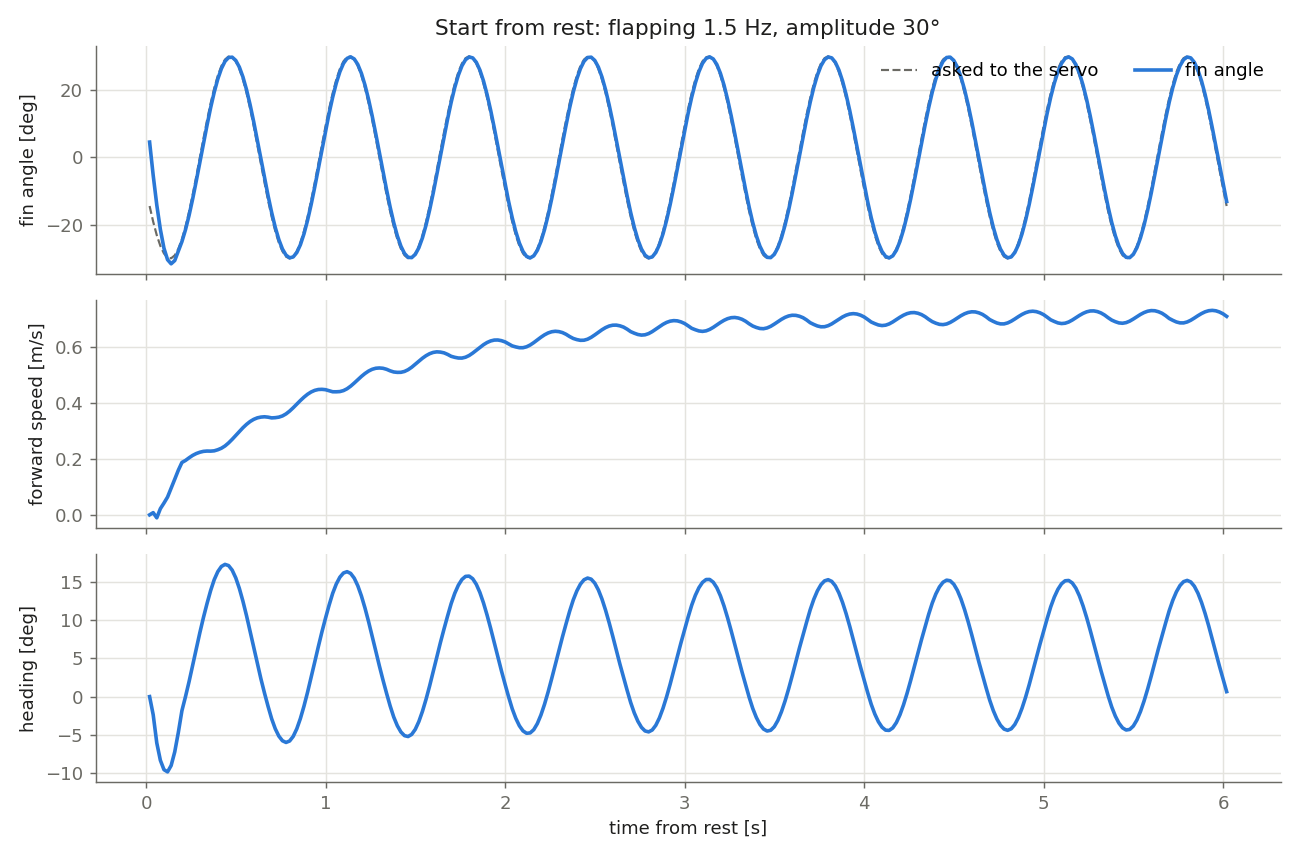
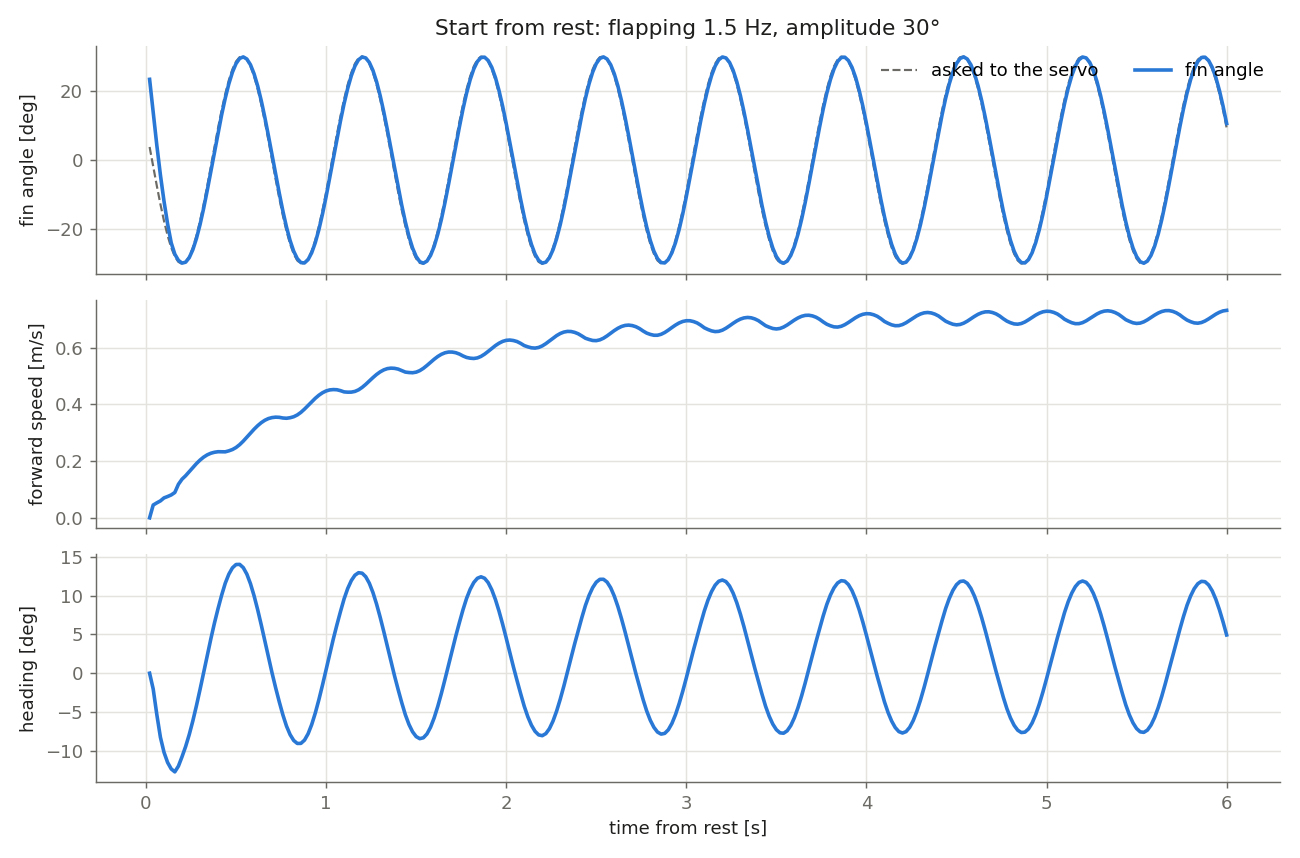
Set the robot mass to 4 kg with a neutral moving mass
The team estimates the structure at about 4 kg, more than the 2.43 kg the
CAD parts explain. The difference (1.57 kg) is added at the tube center,
on the axis (structure_mass_target in assumptions.yaml), and the moving
mass is set to the weight that makes the robot neutral: 714 g
(moving_mass.mass_g: neutral). The basin and campus scenes use this
default; the 2.282 kg overrides are removed.

The moving mass rests 92 mm forward to keep the robot level. The tail
flapping tests were run again: same results within 0.01 m/s (the total
neutral mass is unchanged).

diff --git a/Tools/cad_analysis/cad_analysis.py b/Tools/cad_analysis/cad_analysis.py
@@ -157,6 +157,11 @@ def main():
     for name, spec in A['extra_masses'].items():
         at = parts[spec['at_part']]['cen'] if 'at_part' in spec else np.array(spec['at'], float)
         rows.append((name, 'not in the CAD', spec['status'], 0.0, spec['mass'] / 1000, at, np.zeros((3, 3))))
+    target = A.get('structure_mass_target')                     # optional: total structure mass given by the team
+    if target:
+        missing = target['mass_g'] / 1000 - sum(r[4] for r in rows)
+        rows.append(('unaccounted', 'difference with the team estimate of the robot mass', target['status'], 0.0,
+                     missing, np.array(target['at'], float), np.zeros((3, 3))))
     m_dry = sum(r[4] for r in rows)
     com_dry = sum(r[4] * r[5] for r in rows) / m_dry
 
@@ -179,14 +184,16 @@ def main():
 
     # ---- 3. moving mass on the tube axis (pitch control; its weight is adjustable, the robot carries no ballast)
     mm_spec = A['moving_mass']
-    m_move = mm_spec['mass_g'] / 1000
+    m_neutral = RHO_WATER * vol_disp - m_dry                      # moving mass that makes the robot neutral
+    m_move = round(m_neutral, 3) if mm_spec['mass_g'] == 'neutral' else mm_spec['mass_g'] / 1000
     move_pos = np.array(mm_spec['center_mm'], float) / 1000       # center of its travel
     half_travel = mm_spec['travel_mm'] / 2000                     # ± around the center
     m_total = m_dry + m_move
     com = (m_dry * com_dry + m_move * move_pos) / m_total         # moving mass at the center of its travel
     bg = cob[2] - com[2]                                          # CoM below CoB
     buoyancy_pct = (RHO_WATER * vol_disp / m_total - 1) * 100     # + = floats
-    m_neutral = RHO_WATER * vol_disp - m_dry                      # moving mass that makes the robot neutral
+    # position of the moving mass along the axis that puts the CoM right under the CoB (robot level), + = forward
+    level_pos = -(m_total * cob[1] - m_dry * com_dry[1]) / m_move - move_pos[1]
     rest_pitch = np.degrees(np.arctan2(com[1] - cob[1], bg))      # + = CoM behind the CoB → nose up at rest
 
     def balance(m):
@@ -251,20 +258,24 @@ def main():
     L.append('| Quantity | Value |\n| --- | --- |')
     L.append(f'| Displaced volume | {vol_disp * 1e3:.2f} L (' + ', '.join(f'{n} {v * 1e3:.2f}' for n, v, _ in hull[:3]) + f', parts outside the hull {sum(v for _, v, _ in hull[3:]) * 1e3:.2f}) → the water pushes up with the weight of {vol_disp * 1e3:.2f} kg |')
     L.append(f'| Structure | {m_dry:.2f} kg |')
-    L.append(f'| Moving mass (current) | {m_move * 1000:.0f} g, on the tube axis |')
-    L.append(f'| Total mass | {m_total:.2f} kg → buoyancy **{buoyancy_pct:+.0f} %** of the weight ({"floats" if buoyancy_pct > 0 else "sinks"}) |')
+    L.append(f'| Moving mass (current) | {m_move * 1000:.0f} g, on the tube axis{" (set to the neutral value)" if mm_spec["mass_g"] == "neutral" else ""} |')
+    L.append(f'| Total mass | {m_total:.2f} kg → buoyancy **{buoyancy_pct:+.0f} %** of the weight ({"neutral" if abs(buoyancy_pct) < 0.5 else "floats" if buoyancy_pct > 0 else "sinks"}) |')
     L.append(f'| Moving mass for neutral buoyancy | **{m_neutral * 1000:.0f} g** |')
     L.append(f'| Center of buoyancy (CAD) | {mm(cob)} mm |')
     L.append(f'| Center of mass (CAD), moving mass centered | {mm(com)} mm |')
     L.append(f'| CoM below CoB (BG) | {bg * 1000:.1f} mm → righting moment {m_total * G * bg:.2f} N·m/rad |')
-    L.append(f'| CoM behind the CoB | {(com[1] - cob[1]) * 1000:.1f} mm → resting pitch {rest_pitch:+.1f}° (+ = nose up) with the moving mass centered |\n')
+    L.append(f'| CoM behind the CoB | {(com[1] - cob[1]) * 1000:.1f} mm → resting pitch {rest_pitch:+.1f}° (+ = nose up) with the moving mass centered |')
+    L.append(f'| Moving mass position for a level robot | {level_pos * 1000:.0f} mm forward of the tube center ({"within" if abs(level_pos) <= half_travel else "**outside**"} its ±{half_travel * 1000:.0f} mm travel) |\n')
     L.append('The structure masses are estimates (CAD volume × assumed material), so the buoyancy is uncertain: '
              'weighing the robot is the best way to confirm it.\n')
     L.append('## Moving mass (pitch)\n')
     L.append(f'Travel: {mm_spec["travel_mm"]} mm along the tube axis (±{half_travel * 1000:.0f} mm), speed {mm_spec["speed_mm_s"]} mm/s (estimate). '
              'The maximum static pitch is reached with the mass at one end of its travel (submerged robot): tan θ = m·d / (M·BG).\n')
     L.append('| Moving mass | Total mass | Buoyancy | BG | Maximum static pitch |\n| --- | --- | --- | --- | --- |')
-    for m, label in [(m_move, f'{m_move * 1000:.0f} g (current)'), (0.5, '500 g'), (1.0, '1000 g'), (m_neutral, f'{m_neutral * 1000:.0f} g (neutral)')]:
+    cases = [(0.1, '100 g'), (0.5, '500 g'), (1.0, '1000 g'), (m_neutral, f'{m_neutral * 1000:.0f} g (neutral)')]
+    if abs(m_move - m_neutral) > 0.002:
+        cases.insert(0, (m_move, f'{m_move * 1000:.0f} g (current)'))
+    for m, label in cases:
         mt, b, bp, pmax = balance(m)
         L.append(f'| {label} | {mt:.2f} kg | {bp:+.0f} % | {b * 1000:.1f} mm | ±{pmax:.0f}° |')
     L.append('')

diff --git a/Assets/AUV/Scripts/RobotFishPhysics.cs b/Assets/AUV/Scripts/RobotFishPhysics.cs
@@ -42,12 +42,12 @@ public class RobotFishPhysics : MonoBehaviour
     // The robot carries no ballast: its mass is the structure (every part, estimated from the CAD) plus the
     // moving mass. Its buoyancy is therefore a result, not a setting (see Docs/RobotFish_CAD_Report.md).
     [Header("Structure (everything except the moving mass, Docs/RobotFish_CAD_Report.md)")]
-    [Tooltip("Mass of the structure: hull, electronics, battery, servos, fins [kg] (estimate from the CAD).")]
-    public float structureMass = 2.432f;
+    [Tooltip("Mass of the structure: hull, electronics, battery, servos, fins [kg] (team estimate: about 4 kg; the part of it not explained by the CAD is placed at the tube center).")]
+    public float structureMass = 4.000f;
     [Tooltip("Center of mass of the structure, local axes [m].")]
-    public Vector3 structureCenterOfMass = new Vector3(0.0390f, -0.0080f, 0f);
+    public Vector3 structureCenterOfMass = new Vector3(0.0237f, -0.0049f, 0f);
     [Tooltip("Principal moments of inertia of the structure about its own center of mass, local axes x (roll), y (yaw), z (pitch), including the added inertia of the water [kg·m²].")]
-    public Vector3 structureInertia = new Vector3(0.0044f, 0.1307f, 0.1309f);
+    public Vector3 structureInertia = new Vector3(0.0044f, 0.1322f, 0.1324f);
 
     // ------------------------------------------------------------------ hull geometry (displaced volume)
     [Header("Hull geometry (CAD)")]
@@ -117,8 +117,8 @@ public class RobotFishPhysics : MonoBehaviour
 
     // ------------------------------------------------------------------ moving mass
     [Header("Moving mass (pitch)")]
-    [Tooltip("Weight that slides along the tube axis [kg]. Adjustable on the real robot: starts at 0.1 kg, more is added as needed (about 2.3 kg makes the robot neutral).")]
-    public float movingMass = 0.1f;
+    [Tooltip("Weight that slides along the tube axis [kg]. Adjustable on the real robot; set to the weight that makes the robot neutral (0.714 kg with a 4 kg structure).")]
+    public float movingMass = 0.714f;
     [Tooltip("Travel from the tube center to each end [m] (tube length minus 5 cm at each end: ±0.15 m).")]
     public float movingMassTravel = 0.15f;
     [Tooltip("Speed of the moving mass [m/s] (estimate: the actuator is not known).")]

diff --git a/Assets/Environment/Editor/CampusSceneBuilder.cs b/Assets/Environment/Editor/CampusSceneBuilder.cs
@@ -503,12 +503,10 @@ public static class CampusSceneBuilder
 
     static CameraTour.Waypoint WP(Vector3 p, Vector3 look, float d) => new CameraTour.Waypoint { position = p, lookAt = look, duration = d };
 
-    // In this presentation scene the robot is neutral (moving mass 2.28 kg), so it stays submerged and can be driven
+    // The robot is neutral by default (moving mass set to the neutral weight), so it stays submerged and can be driven
     static void SetupRobot()
     {
         var physics = Object.FindAnyObjectByType<RobotFishPhysics>();
-        physics.movingMass = 2.282f;
-        EditorUtility.SetDirty(physics);
         var log = physics.GetComponent<GroundTruthLogger>();
         if (log != null) Object.DestroyImmediate(log);                // no ground-truth files from presentations
     }

diff --git a/Docs/RobotFish_Model.md b/Docs/RobotFish_Model.md
@@ -17,7 +17,7 @@ This document describes the robot (from its CAD model) and how the Unity simulat
 | Hull | acrylic tube Ø110/100 mm × 400 mm, closed by two caps |
 | Front | transparent dome (hemisphere Ø114 mm) with the camera |
 | Inside | two rails carrying the trays: Raspberry Pi 4 + Navigator board (IMU, magnetometer) on top, battery below |
-| Moving mass | a weight that slides along the tube axis (vertically and laterally centered) over 300 mm (the tube length minus 50 mm at each end). Its weight is adjustable: it starts at 100 g and the team adds weight as needed. How it is driven is not known; the CAD shows an HS-5496MH servo with a horn, a rod and a carriage at the front of the tube, kept in the simulation as a static visual |
+| Moving mass | a weight that slides along the tube axis (vertically and laterally centered) over 300 mm (the tube length minus 50 mm at each end). Its weight is adjustable; the simulation uses the weight that makes the robot neutral (714 g). How it is driven is not known; the CAD shows an HS-5496MH servo with a horn, a rod and a carriage at the front of the tube, kept in the simulation as a static visual |
 | Tail drive | clamp around the rear cap, V-shaped support, Hitec D955TW servo in a waterproof housing, vertical axis 325 mm behind the tube center, arm to the fin |
 | Tail fin | vertical plate 160 × 120 mm (191.5 cm²), 5 mm thick |
 | Dorsal fin | fixed quarter disc R 75 mm (42 cm²) on top of the rear cap, stabilizer |
@@ -30,11 +30,11 @@ The pressure sensor and the GNSS antenna exist on the robot but are not in the C
 | Quantity | Value | Consequence |
 | --- | --- | --- |
 | Displaced volume | 4.71 L | the water pushes the robot up with the weight of 4.71 kg |
-| Estimated structure mass | 2.43 kg (CAD volume × assumed material, see the assumptions) | with the moving mass at 100 g (2.53 kg) the robot **floats strongly (+86 %)**: about half of the hull stays out of the water |
-| Moving mass for neutral buoyancy | **≈ 2.28 kg** | the team will have to add weight to the moving mass to dive (or the real parts are heavier than estimated: **weighing the robot** is the most useful measurement) |
-| Center of mass of the structure | 31 mm behind and 6 mm below the center of buoyancy (the tail servo is heavy and at the rear) | submerged, the robot tends to raise its nose; the moving mass must sit slightly forward to keep it level (≈ 3 cm forward with 2.28 kg) |
-| Moving-mass authority | with 2.28 kg, moving it to an end of its travel (±150 mm) tilts the robot up to ±88° | a few centimetres of travel are enough to tilt the robot by tens of degrees; the depth controller will use only a small part of the travel |
-| Center of mass below the center of buoyancy | 2.8 mm (2.28 kg) to 6.4 mm (100 g) | weak self-righting: the robot rolls and tilts easily |
+| Structure mass | **4.0 kg** (team estimate). The parts of the CAD (volume × assumed material) explain 2.43 kg; the remaining 1.57 kg is placed at the tube center, on the axis (battery, electronics and cables are there) | – |
+| Moving mass for neutral buoyancy | **714 g**: the simulation uses this weight | the robot is neutral (4.71 kg) and stays at its depth; **weighing the robot** remains the most useful measurement |
+| Center of mass of the structure | 18 mm behind and 4 mm below the center of buoyancy (the tail servo is heavy and at the rear) | submerged, the robot tends to raise its nose; the moving mass rests 92 mm forward of the tube center to keep it level, which leaves 58 mm of travel forward and 242 mm backward |
+| Moving-mass authority | with 714 g, about 11 mm of displacement tilts the robot by 30° at rest | a few centimetres of travel are enough to tilt the robot by tens of degrees; the depth controller will use only a small part of the travel |
+| Center of mass below the center of buoyancy | 2.8 mm (neutral) | weak self-righting: the robot rolls and tilts easily |
 
 ## 3. Simulation model
 
@@ -62,10 +62,10 @@ Local axes: forward = −X, up = +Y, right = +Z; origin = tube center. The physi
 
 ### 3.1 Mass properties
 
-- **Structure** (every part except the moving mass): `structureMass` = 2.43 kg, `structureCenterOfMass`, `structureInertia` (about its own center of mass, including the added inertia of the water in pitch and yaw), all from the CAD report.
-- **Moving mass** on the tube axis: `movingMass` (default **0.1 kg**, adjustable like on the real robot), at `movingMassPosition` (+ = forward).
+- **Structure** (every part except the moving mass): `structureMass` = 4.0 kg, `structureCenterOfMass`, `structureInertia` (about its own center of mass, including the added inertia of the water in pitch and yaw), all from the CAD report.
+- **Moving mass** on the tube axis: `movingMass` (default **0.714 kg**, the weight that makes the robot neutral), at `movingMassPosition` (+ = forward).
 - Every step, the total mass, the center of mass and the inertia (parallel-axis theorem) are recomputed from both. The **buoyancy is a result**: `buoyancyPercent` (Debug) = water pushed up / weight − 1.
-- **Rest position:** with `levelAtRest` (default), the rest position of the moving mass is computed at start so that the submerged robot rests level (moving mass placed so that the center of mass is under the center of buoyancy, clamped to the travel), as an operator would adjust it. With 2.28 kg it is 3.2 cm forward; with 100 g the robot would need the mass 79 cm forward, so it stays at the front end (this only matters if the robot is submerged).
+- **Rest position:** with `levelAtRest` (default), the rest position of the moving mass is computed at start so that the submerged robot rests level (moving mass placed so that the center of mass is under the center of buoyancy, clamped to the travel), as an operator would adjust it. With 714 g it is 92 mm forward of the tube center.
 - **Command:** `pitchCommand` 0 = rest position, +1 = front end (nose down), −1 = back end (nose up); the mass moves at `movingMassSpeed` (50 mm/s, estimate).
 
 ### 3.2 Buoyancy
@@ -153,7 +153,7 @@ The detailed prefab uses the CAD parts converted by `Tools/cad_analysis/cad_to_u
 `RobotFishVisual` (`Assets/AUV/Scripts/RobotFishVisual.cs`) moves two parts every frame from the state of `RobotFishPhysics` (it only moves visuals; the physics does not depend on it):
 
 - **Moving mass**: a square carriage (50 × 50 mm, orange) with a metal weight on top (40 × 40 × 15 mm, steel), like on the real robot, on the tube axis. Its size is fixed: the weight set in `movingMass` only matters for the physics.
-  - **Exaggerated display (default, `movingMassDisplay`).** Near neutral buoyancy, the center of mass is only a few millimetres below the center of buoyancy, so a few millimetres of moving mass already tilt the robot by tens of degrees (3.5 mm ≈ 30° with 2.28 kg) and the real motion cannot be seen. The displayed offset from the rest position is therefore scaled up: the displayed mass reaches the end of the tube when the robot, at rest, would be pitched by `referencePitch` (45°). From the static balance about the center of buoyancy, tan θ = (m · Δx / M) / BG, so the real offset for 45° is Δx_ref = M · BG · tan 45° / m (about 6 mm with 2.28 kg: the display scale is then about 20). The mass moves first and the nose follows, as on the real robot. The scale is never below 1, and the Inspector shows it (`displayScale`). **Only the visual is scaled; the physics uses the real position.**
+  - **Exaggerated display (default, `movingMassDisplay`).** Near neutral buoyancy, the center of mass is only a few millimetres below the center of buoyancy, so a few millimetres of moving mass already tilt the robot by tens of degrees (11 mm ≈ 30° with 714 g) and the real motion cannot be seen. The displayed offset from the rest position is therefore scaled up: the displayed mass reaches the end of the tube when the robot, at rest, would be pitched by `referencePitch` (45°). From the static balance about the center of buoyancy, tan θ = (m · Δx / M) / BG, so the real offset for 45° is Δx_ref = M · BG · tan 45° / m (about 18 mm with 714 g; the free travel ahead of the rest position is 58 mm, so the display scale is about 3). The mass moves first and the nose follows, as on the real robot. The scale is never below 1, and the Inspector shows it (`displayScale`). **Only the visual is scaled; the physics uses the real position.**
   - `Realistic` shows the real position.
 - **Tail**: the servo hub, the arm and the fin turn together about the vertical servo axis with `finAngle`.
 
@@ -179,7 +179,7 @@ All visuals are on the **`Robot` layer**, which the robot's camera (`Sensors/RGB
 
 ### 5.1 Tail flapping
 
-Open-loop tests in `Basin_Grid` with `RobotFishDetailed`, neutral robot (moving mass 2.282 kg), starting from rest at 2.5 m depth. For each frequency and amplitude, the speed is measured between 7 and 12 s (steady state).
+Open-loop tests in `Basin_Grid` with `RobotFishDetailed`, neutral robot (structure 4.0 kg, moving mass 714 g), starting from rest at 2.5 m depth. For each frequency and amplitude, the speed is measured between 7 and 12 s (steady state).
 
 ![Swimming speed and servo load against the flapping frequency](images/tail_flapping_sweep.png)
 
@@ -188,9 +188,9 @@ Open-loop tests in `Basin_Grid` with `RobotFishDetailed`, neutral robot (moving 
 | 0.5 Hz | 0.11 m/s | 0.22 m/s | 0.29 m/s |
 | 1.0 Hz | 0.27 m/s | 0.47 m/s | 0.61 m/s |
 | 1.5 Hz | 0.43 m/s | **0.72 m/s** (cruise) | 0.90 m/s |
-| 2.0 Hz | 0.59 m/s | 0.95 m/s | 1.15 m/s (real amplitude 42°) |
-| 2.5 Hz | 0.75 m/s | 1.17 m/s (27°) | 1.17 m/s (30°) |
-| 3.0 Hz | 0.91 m/s | 1.14 m/s (23°) | 1.14 m/s (28°) |
+| 2.0 Hz | 0.59 m/s | 0.96 m/s | 1.16 m/s (real amplitude 41°) |
+| 2.5 Hz | 0.75 m/s | 1.18 m/s (28°) | 1.18 m/s (28°) |
+| 3.0 Hz | 0.91 m/s | 1.14 m/s (25°) | 1.15 m/s (31°) |
 
 - **Speed** grows with frequency and amplitude. The cruise flapping (1.5 Hz, 30°) gives 0.72 m/s, about 0.9 body length per second (the robot is 0.81 m long), in the usual range of robot fish.
 - **Strouhal number** St = f · (trailing-edge peak-to-peak) / U between 0.37 and 0.55. Fish swim at 0.2–0.4; robot fish, less efficient, usually somewhat higher.
@@ -206,23 +206,23 @@ Open-loop tests in `Basin_Grid` with `RobotFishDetailed`, neutral robot (moving 
 
 | Bias | Yaw rate | Turning radius | Speed |
 | --- | --- | --- | --- |
-| 5° | 7°/s | 5.8 m | 0.71 m/s |
-| 10° | 12°/s | 3.4 m | 0.72 m/s |
+| 5° | 7°/s | 6.1 m | 0.71 m/s |
+| 10° | 13°/s | 3.3 m | 0.72 m/s |
 | 20° | 16°/s | 2.5 m | 0.69 m/s |
 
 **Roll resonance (important for the real robot).** The roll of the robot has a natural frequency close to the flapping frequencies: when neutral, the righting moment in roll is only W · BG ≈ 0.13 N·m/rad (BG = 2.8 mm) and the roll inertia ≈ 0.0045 kg·m², which gives about 0.9 Hz. Flapping near this frequency makes the robot roll, and a rolled robot turns part of the side force of the fin into a vertical force: during the development of the model, before the fin was split in rows (no roll damping from the fin), the robot rolled by ±8–10° and dived by about 1 m in 5 s while swimming. On the real robot, a strong roll or a depth drift that depends on the flapping frequency would come from this; placing the moving mass or other heavy parts lower in the tube (larger BG) moves the resonance up.
 
 ### 5.2 Mass, buoyancy, moving mass (SimpleThrust model)
 
-Scripted tests in `Basin_Grid` with `RobotFishDetailed`, commands published by a ROS 2 node at 20 Hz, made with the `SimpleThrust` model (fixed rudder + forward force).
+Scripted tests in `Basin_Grid` with `RobotFishDetailed`, commands published by a ROS 2 node at 20 Hz, made with the `SimpleThrust` model (fixed rudder + forward force) and the **previous mass estimate** (structure 2.43 kg from the CAD only). The robot now weighs 4.0 kg with a 714 g moving mass: the neutral case below has the same total mass and buoyancy, the moving mass simply rests further forward and needs about 3 times more travel for the same tilt.
 
-**Moving mass 100 g (default, as on the real robot today), no command:**
+**Moving mass 100 g (previous estimate), no command:**
 
 | Test | Result |
 | --- | --- |
 | Released at 2.5 m depth | rises quickly (up to 0.5 m/s), gliding forward while rising (≈ 4 m), and floats with 54 % of its volume under water (+86 % buoyancy), level |
 
-**Moving mass 2.28 kg (neutral buoyancy):**
+**Moving mass 2.28 kg (neutral buoyancy with the previous estimate):**
 
 | Test | Result |
 | --- | --- |
@@ -241,16 +241,16 @@ The ±88° pitch matches the prediction of the CAD analysis: the full travel of 
 
 **Keyboard** (no ROS needed): open the Unity Hub (on this computer through the NVIDIA GPU: `__NV_PRIME_RENDER_OFFLOAD=1 __GLX_VENDOR_LIBRARY_NAME=nvidia unityhub &`), open the project, open `Assets/TestBasin/Scenes/Basin_Grid.unity`.
 
-1. **As the robot is today (moving mass 100 g):** press Play and click the Game view: the robot rises to the surface and floats.
-2. **Neutral robot:** stop Play, select `RobotFishDetailed` in the Hierarchy, set `Moving Mass` to `2.282` in `Robot Fish Physics`, press Play and click the Game view. The robot stays level at its depth.
+1. Press Play and click the Game view: the robot (neutral) stays level at its depth.
+2. To see a floating robot, stop Play, select `RobotFishDetailed` in the Hierarchy, set `Moving Mass` to a smaller value (e.g. `0.1`) in `Robot Fish Physics` and press Play: it rises to the surface. Set it back to 0.714 afterwards (or do not save the scene).
 3. Hold **Space**: the tail flaps (1.5 Hz, 30°) and the robot accelerates to about 0.7 m/s in a few seconds, swinging a little in yaw with each stroke.
 4. Keep Space and hold **D** (or **A**): the fin flaps around a 30° bias and the robot turns right (left). Release: it goes straight.
 5. Keep Space and tap **W** briefly: the moving mass goes forward, the nose goes down and the robot dives; **S** makes it climb. Holding W or S for long brings the mass to the end of its travel and the robot becomes vertical. Release: the mass goes back to its rest position and the robot levels. In the Scene view (or with the free camera, **C**) the moving mass (orange carriage with its metal weight) can be seen sliding inside the transparent hull (exaggerated display, section 4).
 6. Release everything: it glides and stops.
 
-Set `Moving Mass` back to 0.1 afterwards (or do not save the scene). The `Debug` section of `Robot Fish Physics` (Inspector) shows the mass, the buoyancy in %, the submerged fraction, the forward speed, the fin angle, the flapping state, the tail thrust, the moment on the servo, the Strouhal number and the moving-mass position. To compare with the previous model, set `Propulsion` to `SimpleThrust`.
+The `Debug` section of `Robot Fish Physics` (Inspector) shows the mass, the buoyancy in %, the submerged fraction, the forward speed, the fin angle, the flapping state, the tail thrust, the moment on the servo, the Strouhal number and the moving-mass position. To compare with the previous model, set `Propulsion` to `SimpleThrust`.
 
-**From ROS 2** (with `Moving Mass` = 2.282, as in step 2):
+**From ROS 2:**
 
 **Terminal 1: ROS-TCP-Endpoint** (workspace with the endpoint, see [AUV_Sensors.md](AUV_Sensors.md#5-running-with-ros-2) to create it once):
 

diff --git a/Docs/RobotFish_CAD_Report.md b/Docs/RobotFish_CAD_Report.md
@@ -45,7 +45,8 @@ Frames: CAD = (X lateral, Y long axis with the front at −Y, Z up); Unity = loc
 | `calda` | PLA | estimate | 95.8 | 119 | (26.2, 466.7, -17.0) |
 | `calda_lateral` | PLA | estimate | 6.3 | 8 | (-0.0, 166.8, 87.0) |
 | `cables_and_screws` | not in the CAD | estimate | 0.0 | 100 | (0.0, 0.0, 0.0) |
-| **Total structure** (without the moving mass) | | | | **2432** | (0.8, 39.0, -8.0) |
+| `unaccounted` | difference with the team estimate of the robot mass | team estimate (2026-10-29) | 0.0 | 1568 | (0.0, 0.0, 0.0) |
+| **Total structure** (without the moving mass) | | | | **4000** | (0.5, 23.7, -4.9) |
 
 The robot carries no ballast: its weight is the structure above plus the moving mass.
 
@@ -54,14 +55,15 @@ The robot carries no ballast: its weight is the structure above plus the moving 
 | Quantity | Value |
 | --- | --- |
 | Displaced volume | 4.71 L (tube envelope 3.80, cap discs 0.17, dome 0.39, parts outside the hull 0.35) → the water pushes up with the weight of 4.71 kg |
-| Structure | 2.43 kg |
-| Moving mass (current) | 100 g, on the tube axis |
-| Total mass | 2.53 kg → buoyancy **+86 %** of the weight (floats) |
-| Moving mass for neutral buoyancy | **2282 g** |
+| Structure | 4.00 kg |
+| Moving mass (current) | 714 g, on the tube axis (set to the neutral value) |
+| Total mass | 4.71 kg → buoyancy **+0 %** of the weight (neutral) |
+| Moving mass for neutral buoyancy | **714 g** |
 | Center of buoyancy (CAD) | (0.6, 6.1, -1.3) mm |
-| Center of mass (CAD), moving mass centered | (0.8, 37.4, -7.7) mm |
-| CoM below CoB (BG) | 6.4 mm → righting moment 0.16 N·m/rad |
-| CoM behind the CoB | 31.3 mm → resting pitch +78.4° (+ = nose up) with the moving mass centered |
+| Center of mass (CAD), moving mass centered | (0.4, 20.1, -4.2) mm |
+| CoM below CoB (BG) | 2.8 mm → righting moment 0.13 N·m/rad |
+| CoM behind the CoB | 14.0 mm → resting pitch +78.5° (+ = nose up) with the moving mass centered |
+| Moving mass position for a level robot | 92 mm forward of the tube center (within its ±150 mm travel) |
 
 The structure masses are estimates (CAD volume × assumed material), so the buoyancy is uncertain: weighing the robot is the best way to confirm it.
 
@@ -71,10 +73,10 @@ Travel: 300 mm along the tube axis (±150 mm), speed 50 mm/s (estimate). The max
 
 | Moving mass | Total mass | Buoyancy | BG | Maximum static pitch |
 | --- | --- | --- | --- | --- |
-| 100 g (current) | 2.53 kg | +86 % | 6.4 mm | ±43° |
-| 500 g | 2.93 kg | +61 % | 5.4 mm | ±78° |
-| 1000 g | 3.43 kg | +37 % | 4.4 mm | ±84° |
-| 2282 g (neutral) | 4.71 kg | +0 % | 2.8 mm | ±88° |
+| 100 g | 4.10 kg | +15 % | 3.5 mm | ±47° |
+| 500 g | 4.50 kg | +5 % | 3.0 mm | ±80° |
+| 1000 g | 5.00 kg | -6 % | 2.6 mm | ±85° |
+| 714 g (neutral) | 4.71 kg | +0 % | 2.8 mm | ±83° |
 
 ## Inertia
 
@@ -83,8 +85,8 @@ Structure only, about its own center of mass (the simulation adds the moving mas
 | Axis (Unity) | Rigid body [kg·m²] | Added (water) [kg·m²] | Total used [kg·m²] |
 | --- | --- | --- | --- |
 | roll (x, long axis) | 0.0044 | 0 | 0.0044 |
-| yaw (y, vertical) | 0.0800 | 0.0507 | 0.1307 |
-| pitch (z, lateral) | 0.0802 | 0.0507 | 0.1309 |
+| yaw (y, vertical) | 0.0815 | 0.0507 | 0.1322 |
+| pitch (z, lateral) | 0.0817 | 0.0507 | 0.1324 |
 
 Hull added mass sideways and vertically: 3.80 kg (not used in the simulation, see `RobotFish_Model.md`).
 
@@ -108,10 +110,10 @@ Tail servo: max angle ±60°, speed 500°/s, torque 2.84 N·m (D955TW at 7.4 V).
 | Field | Value |
 | --- | --- |
 | `displacedVolume` | 0.00471 m³ |
-| `structureMass` | 2.432 kg |
-| `structureCenterOfMass` (Unity) | (39.0, -8.0, -0.8) mm |
-| `structureInertia` (Unity x, y, z) | (0.0044, 0.1307, 0.1309) kg·m² |
-| `movingMass`, `movingMassTravel`, `movingMassSpeed` | 0.10 kg, ±0.150 m, 0.050 m/s |
+| `structureMass` | 4.000 kg |
+| `structureCenterOfMass` (Unity) | (23.7, -4.9, -0.5) mm |
+| `structureInertia` (Unity x, y, z) | (0.0044, 0.1322, 0.1324) kg·m² |
+| `movingMass`, `movingMassTravel`, `movingMassSpeed` | 0.71 kg, ±0.150 m, 0.050 m/s |
 | `tailHinge` (Unity) | (325.0, 6.2, 0.0) mm |
 | tail fin center of pressure | 0.104 m behind the hinge, height -0.017 m |
 | `tailFinArea`, `dorsalFinArea` | 0.0192 m², 0.0042 m² |

diff --git a/Docs/RobotFish_Assumptions.md b/Docs/RobotFish_Assumptions.md
@@ -12,11 +12,11 @@ The simulation of the robot fish relies on values that were not measured on the 
 
 | # | Quantity | Current value | Why it matters | How to measure |
 | --- | --- | --- | --- | --- |
-| 1 | **Mass of the robot** (weighed in air, with everything inside except the moving mass) | 2.43 kg (estimate) | Decides whether it floats or sinks: with the estimate it floats strongly (+86 % with 100 g of moving mass) and needs ≈ 2.28 kg of moving mass to be neutral | Kitchen scale |
+| 1 | **Mass of the robot** (weighed in air, with everything inside except the moving mass) | 4.0 kg (team estimate; the CAD parts explain 2.43 kg, the rest is placed at the tube center) | Sets the moving mass needed to be neutral (714 g with 4.0 kg) and where the center of mass is | Kitchen scale |
 | 2 | Buoyancy in the basin, for a given moving mass | – | Confirms the displaced volume and the mass together | In the basin, note how much of the robot stays out of the water, or add weight until it barely floats |
-| 3 | Weight of the moving mass in use | 100 g (team; adjustable) | Pitch authority and buoyancy | Weigh it |
+| 3 | Weight of the moving mass in use | 714 g (the weight that makes the robot neutral) | Pitch authority and buoyancy | Weigh it |
 | 4 | Longitudinal position of the center of mass of the structure | 39 mm behind the tube center (estimate: the tail servo is heavy and at the rear) | Decides where the moving mass must be for the robot to be level | Balance the robot (without the moving mass) on a rod across the tube |
-| 5 | **Speed of the robot for a few flapping settings** (e.g. 1, 1.5 and 2 Hz at 30°) | simulated: 0.47, 0.72, 0.95 m/s | Calibrates the tail propulsion (added mass coefficient) and the hull drag together | Time it over a known distance in the basin, after the speed has settled |
+| 5 | **Speed of the robot for a few flapping settings** (e.g. 1, 1.5 and 2 Hz at 30°) | simulated: 0.47, 0.72, 0.96 m/s | Calibrates the tail propulsion (added mass coefficient) and the hull drag together | Time it over a known distance in the basin, after the speed has settled |
 | 6 | Roll and depth drift while flapping | simulated: ±4–5° of roll, slight climb at high speed | Checks the roll resonance found in the simulation (about 0.9 Hz, [RobotFish_Model.md](RobotFish_Model.md#51-tail-flapping)) | Video from the side and the front, IMU roll, pressure sensor |
 | 7 | Whether the servo keeps the amplitude at high frequency | simulated: amplitude drops above ≈ 2 Hz at 30° | Servo torque and speed under the water load | Video from above, compare the real amplitude with the command |
 
@@ -36,7 +36,8 @@ Each CAD part gets a mass from its CAD volume × an assumed density, or from a d
 | Tail servo Hitec D955TW | 66 g + waterproof PLA housing filling the rest of its CAD volume at 60 % infill | servo: datasheet, housing: estimate |
 | Rod (`haste`) | steel, 7.85 g/cm³ | estimate |
 | Cables, screws, o-rings | 100 g at the tube center | estimate |
-| Moving mass | 100 g on the tube axis (team: starts at 100 g, weight is added as needed); not part of the structure mass | team |
+| Unaccounted mass | 1.57 kg at the tube center, on the axis: difference between the team estimate of the structure (4.0 kg) and the parts above (2.43 kg) | team estimate (yaml `structure_mass_target`) |
+| Moving mass | 714 g on the tube axis, the weight that makes the robot neutral (yaml `moving_mass.mass_g: neutral`); not part of the structure mass | team |
 | Ballast | none: the robot carries only its parts and the moving mass (team) | team |
 
 ## 3. Geometry (CAD)

diff --git a/Docs/TestBasin.md b/Docs/TestBasin.md
@@ -187,7 +187,7 @@ A video of the simulation is available in `media/basin_simulation.mp4`.
 2. In the Project window, open `Assets/TestBasin/Scenes/Basin_Grid` (with grid) or `Basin_NoGrid` (without grid).
 3. Press **▶ Play** and drive the AUV with the keys of section 3.7. The camera follows it; below 5.5 m inside the basin, the underwater fog turns on.
 4. Press **C** for the free camera: hold the **right mouse button** and use **WASD**, **Q/E** (down/up) and **Shift** (faster). Press **C** again to follow the AUV.
-5. To test buoyancy: with the default moving mass (100 g) the robot floats; set `Moving Mass` to 2.282 on `RobotFishDetailed` (`Robot Fish Physics`) for a neutral robot, or change the test ballast with **Q/E** (simulation only). `RobotFishPhysics` parameters are on the robot fish prefabs.
+5. To test buoyancy: with the default moving mass (714 g) the robot is neutral; set a smaller `Moving Mass` on `RobotFishDetailed` (`Robot Fish Physics`) for a floating robot, or change the test ballast with **Q/E** (simulation only). `RobotFishPhysics` parameters are on the robot fish prefabs.
 6. When leaving Play mode, the Console prints the path of the CSV file, saved in `GroundTruthLogs/`.
 7. To change the basin, edit the `TestBasin` parameters on the prefab; the pieces regenerate automatically.
 

diff --git a/Docs/GNC.md b/Docs/GNC.md
@@ -155,4 +155,4 @@ The physics of the robot fish is described in [RobotFish_Model.md](RobotFish_Mod
 - **The heading oscillates with each stroke** (±6° to ±14° depending on the amplitude): the heading controller must not try to cancel this oscillation, it should act on the heading averaged over a flapping period (low-pass filter or averaging on the magnetometer/IMU heading).
 - **Servo limits:** above about 2 Hz at 30° the servo can no longer follow the commanded amplitude, and beyond 2.5 Hz the water moment exceeds its stall torque. The controllers should stay within this range.
 - **Roll and depth with flapping:** the flapping makes the robot roll a few degrees and, at high speed, climb slowly (the thrust acts below the center of mass); the depth controller compensates with the moving mass.
-- **Unknown buoyancy:** it depends on the real masses and on the weight added to the moving mass (with 100 g the robot floats strongly). The controllers must work for a neutral robot and for a slightly floating one.
+- **Unknown buoyancy:** it depends on the real masses and on the weight added to the moving mass (the simulation uses the neutral weight, 714 g). The controllers must work for a neutral robot and for a slightly floating one.

diff --git a/Tools/cad_analysis/README.md b/Tools/cad_analysis/README.md
@@ -13,6 +13,7 @@ The CAD is not stored in this repository (the meshes are large; `rpi_navigator.s
 
 - Position of every part (forward kinematics of the URDF, all joints at 0), its volume, centroid and inertia (exact integration over the closed mesh).
 - Mass budget: CAD volume × assumed density, or datasheet mass, for each part (`assumptions.yaml`).
+- Optional total mass of the structure given by the team (`structure_mass_target`): the difference with the parts is added as one mass at a given point. The moving mass can be set to `neutral` (`moving_mass.mass_g`): the script then uses the weight that makes the robot neutral.
 - Displaced volume (hull envelope + parts outside the hull), centers of buoyancy and mass, buoyancy of the robot for several weights of the moving mass and the weight that makes it neutral (the robot carries no ballast).
 - Pitch authority of the moving mass, inertia (with the added inertia of the water), tail and dorsal fin geometry.
 

diff --git a/Docs/Campus_Scene.md b/Docs/Campus_Scene.md
@@ -77,7 +77,7 @@ python3 Tools/scene_assets/make_textures.py <path to>/logo-ensta.jpg
 
 The tour is the `CameraTour` component of the main camera: its waypoints (position, look target, duration) can be edited in the Inspector, and `playOnStart` can be turned off.
 
-**Moving mass:** in this scene the moving mass of the robot is set to 2.282 kg, the value that makes the robot neutral (see [RobotFish_Model.md](RobotFish_Model.md)), so that it stays at mid-depth for the presentation instead of floating at the surface with the 100 g starting weight.
+**Moving mass:** the robot uses its default moving mass (714 g), which makes it neutral (see [RobotFish_Model.md](RobotFish_Model.md)), so it stays at mid-depth.
 
 **With ROS 2:** the scene publishes the same sensor topics and listens to the same commands as the basin scenes.
 
